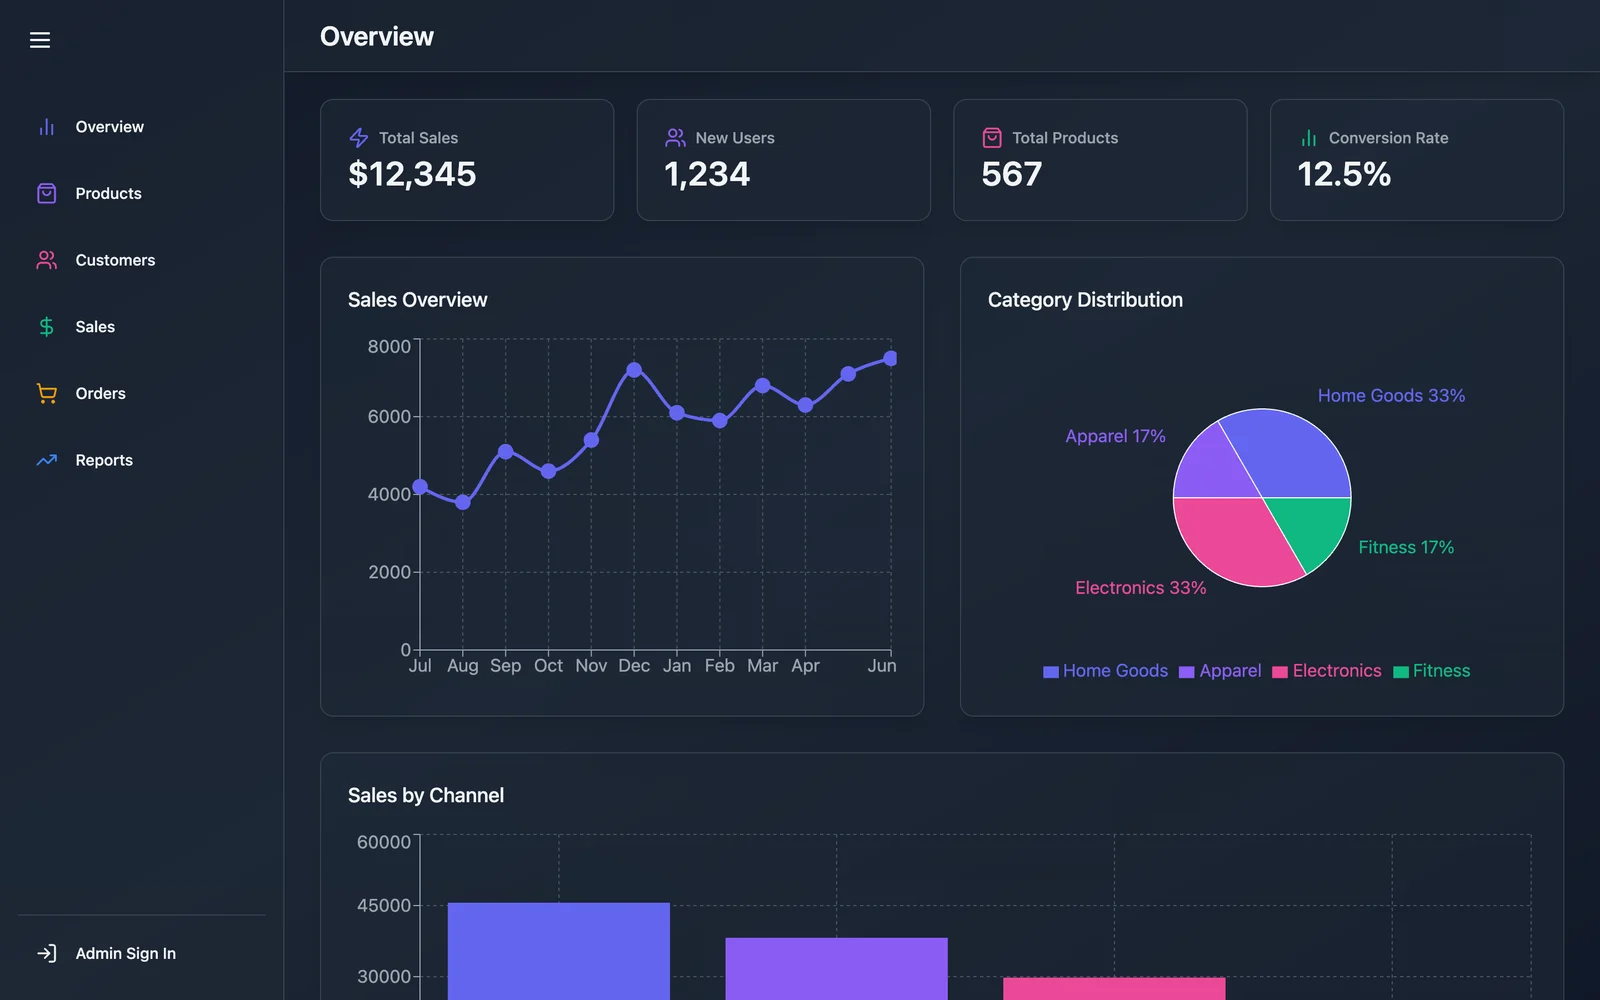
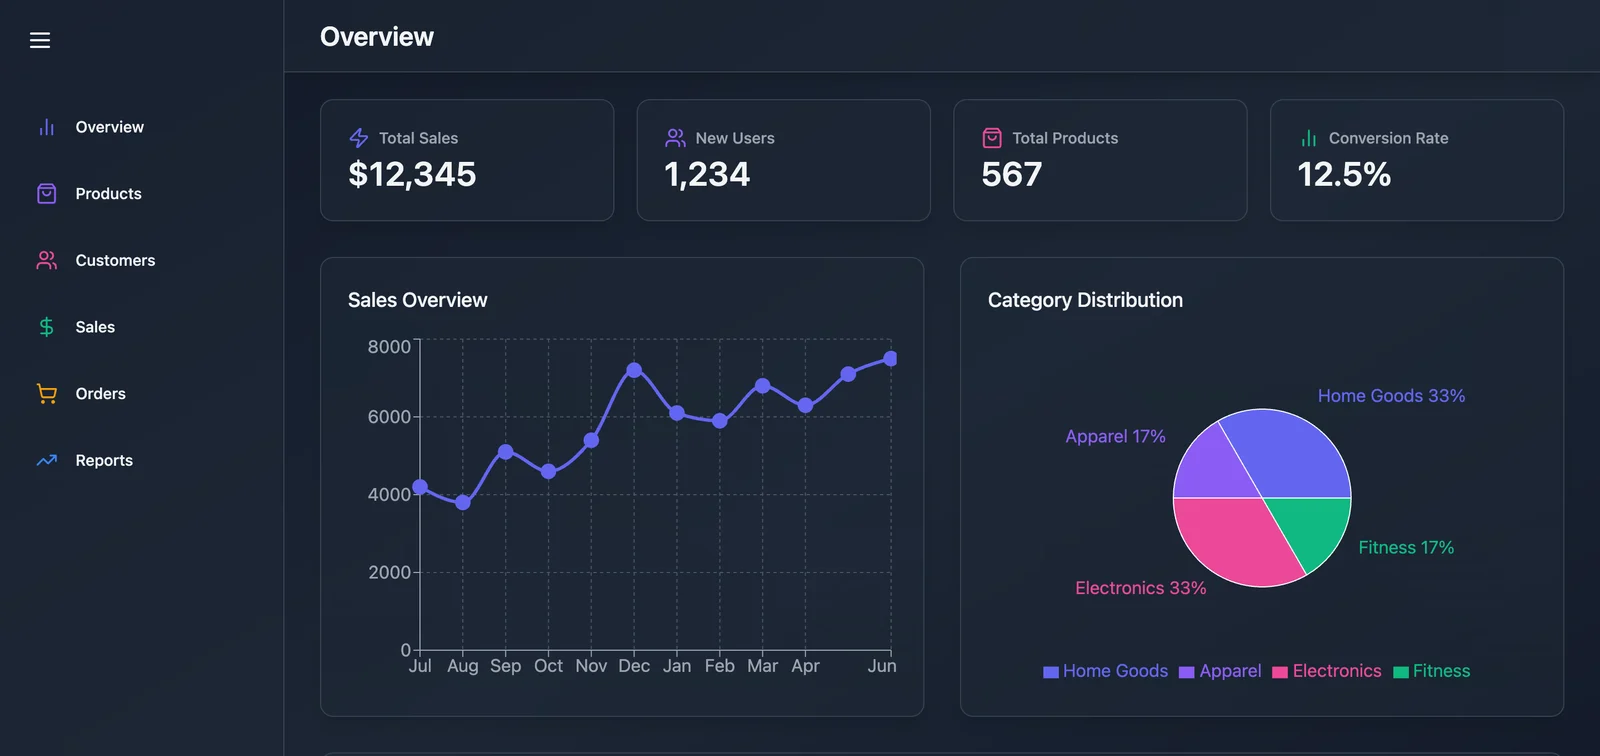
add work section with soldra and projects

diff --git a/src/components/Work.tsx b/src/components/Work.tsx
@@ -1,0 +1,161 @@
+import { ArrowUpRight, GithubLogo } from '@phosphor-icons/react'
+import { profile, projects, soldra, thisSite } from '../data'
+import { Reveal } from './Reveal'
+import { SectionHeading } from './SectionHeading'
+import { buttonPrimary, buttonSecondary, chip, container, eyebrow } from './ui'
+
+export function Work() {
+  return (
+    <section id="work" className="py-24 sm:py-32">
+      <div className={container}>
+        <SectionHeading label="Selected work" title="Things I've built." aside="And the one I'm building now." />
+        <Featured />
+        <MoreProjects />
+      </div>
+    </section>
+  )
+}
+
+function Featured() {
+  return (
+    <Reveal className="mt-14">
+      <article id="soldra" className="relative isolate overflow-hidden rounded-[2rem] bg-night text-night-ink">
+        <div aria-hidden className="pointer-events-none absolute inset-0 -z-10">
+          <div className="absolute -top-48 -left-32 size-[38rem] rounded-full bg-[#6fa0c4] opacity-20 blur-[140px]" />
+          <div className="absolute top-1/4 -right-40 size-[32rem] rounded-full bg-[#f0925c] opacity-15 blur-[140px]" />
+        </div>
+
+        <div className="grid gap-10 p-6 sm:p-10 lg:grid-cols-12 lg:items-center lg:gap-12 lg:p-14">
+          <div className="lg:col-span-5">
+            <div className="flex flex-wrap items-center gap-3">
+              <img src={soldra.logo} alt="" width={36} height={36} className="size-9" />
+              <h3 className="text-3xl font-bold tracking-tight">{soldra.name}</h3>
+              <span className="rounded-full border border-[#f0925c]/40 bg-[#f0925c]/10 px-3 py-1 text-xs font-semibold text-[#f6b48d]">
+                {soldra.status}
+              </span>
+            </div>
+            <p className="mt-5 font-display text-2xl leading-snug font-semibold tracking-tight">{soldra.tagline}</p>
+            <p className="mt-5 leading-relaxed text-night-muted">{soldra.problem}</p>
+            <p className="mt-4 leading-relaxed text-night-muted">{soldra.solution}</p>
+            <ul className="mt-8 flex flex-wrap gap-2" aria-label="Built with">
+              {soldra.stack.map((tech) => (
+                <li
+                  key={tech}
+                  className="rounded-full border border-night-line bg-night-raised px-3 py-1 text-xs font-medium text-night-muted"
+                >
+                  {tech}
+                </li>
+              ))}
+            </ul>
+          </div>
+
+          <div className="lg:col-span-7">
+            <img
+              src={soldra.screenshot}
+              width={1600}
+              height={938}
+              loading="lazy"
+              decoding="async"
+              alt="Soldra's dashboard: profit kept this year, total sold, the next quarterly tax date, and a sold-versus-kept chart for the last six months."
+              className="w-full rounded-2xl shadow-[0_30px_80px_-20px_rgba(0,0,0,0.6)] ring-1 ring-white/10"
+            />
+          </div>
+        </div>
+
+        <ul className="grid gap-px border-t border-night-line bg-night-line sm:grid-cols-2 lg:grid-cols-4">
+          {soldra.details.map((detail) => (
+            <li key={detail.title} className="bg-night p-6 sm:p-8">
+              <h4 className="text-lg font-semibold tracking-tight">{detail.title}</h4>
+              <p className="mt-2 text-sm leading-relaxed text-night-muted">{detail.body}</p>
+            </li>
+          ))}
+        </ul>
+      </article>
+    </Reveal>
+  )
+}
+
+function MoreProjects() {
+  const [project] = projects
+
+  return (
+    <div className="mt-6 grid gap-6 lg:grid-cols-3">
+      <Reveal className="lg:col-span-2">
+        <article className="group flex h-full flex-col overflow-hidden rounded-[2rem] border border-line bg-surface">
+          <div className="overflow-hidden border-b border-line bg-sunken px-5 pt-5 sm:px-8 sm:pt-8">
+            <img
+              src={project.screenshot}
+              width={1600}
+              height={756}
+              loading="lazy"
+              decoding="async"
+              alt="Store Admin Dashboard overview: sales, users, products and conversion rate cards above a sales line chart and a category pie chart."
+              className="w-full rounded-t-xl shadow-[0_20px_50px_-20px_rgba(22,20,15,0.35)] ring-1 ring-ink/10 transition duration-500 ease-out group-hover:-translate-y-1"
+            />
+          </div>
+          <div className="flex flex-1 flex-col p-6 sm:p-8">
+            <h3 className="text-2xl font-bold tracking-tight">{project.name}</h3>
+            <p className="mt-3 leading-relaxed text-muted">{project.description}</p>
+            <ul className="mt-5 flex flex-wrap gap-2" aria-label="Built with">
+              {project.stack.map((tech) => (
+                <li key={tech} className={chip}>
+                  {tech}
+                </li>
+              ))}
+            </ul>
+            <div className="mt-auto flex flex-wrap gap-3 pt-7">
+              <a href={project.live} target="_blank" rel="noreferrer" className={buttonPrimary}>
+                Live demo
+                <ArrowUpRight weight="bold" className="size-4" aria-hidden />
+              </a>
+              <a href={project.source} target="_blank" rel="noreferrer" className={buttonSecondary}>
+                <GithubLogo weight="fill" className="size-4" aria-hidden />
+                Source
+              </a>
+            </div>
+          </div>
+        </article>
+      </Reveal>
+
+      <div className="flex flex-col gap-6">
+        <Reveal delay={80} className="flex-1">
+          <article className="flex h-full flex-col rounded-[2rem] border border-line bg-surface p-6 sm:p-8">
+            <p className={`${eyebrow} text-muted`}>Meta</p>
+            <h3 className="mt-3 text-2xl font-bold tracking-tight">{thisSite.name}</h3>
+            <p className="mt-3 leading-relaxed text-muted">{thisSite.description}</p>
+            <a
+              href={thisSite.source}
+              target="_blank"
+              rel="noreferrer"
+              className="mt-auto inline-flex items-center gap-2 pt-6 text-sm font-semibold text-ink transition-colors hover:text-accent-ink"
+            >
+              <GithubLogo weight="fill" className="size-4" aria-hidden />
+              View source
+              <ArrowUpRight weight="bold" className="size-3.5" aria-hidden />
+            </a>
+          </article>
+        </Reveal>
+
+        <Reveal delay={160} className="flex-1">
+          <a
+            href={profile.github}
+            target="_blank"
+            rel="noreferrer"
+            className="group relative flex h-full min-h-56 flex-col justify-between overflow-hidden rounded-[2rem] bg-accent p-6 text-ink transition hover:brightness-105 sm:p-8"
+          >
+            <GithubLogo weight="fill" className="size-9" aria-hidden />
+            <ArrowUpRight
+              weight="bold"
+              className="absolute top-6 right-6 size-6 transition-transform duration-300 group-hover:translate-x-1 group-hover:-translate-y-1 sm:top-8 sm:right-8"
+              aria-hidden
+            />
+            <div>
+              <h3 className="text-2xl font-bold tracking-tight">More on GitHub</h3>
+              <p className="mt-2 text-ink/85">Everything else I've been working on.</p>
+            </div>
+          </a>
+        </Reveal>
+      </div>
+    </div>
+  )
+}

diff --git a/src/data.ts b/src/data.ts
@@ -1,4 +1,5 @@
 import soldraShot from './assets/projects/soldra-dashboard.webp'
+import soldraMark from './assets/projects/soldra-mark.svg'
 import storeAdminShot from './assets/projects/store-admin.webp'
 import typescript from './assets/logos/typescript.svg'
 import javascript from './assets/logos/javascript.svg'
@@ -67,6 +68,7 @@ export const soldra = {
   solution:
     "Soldra imports sales from six marketplaces, takes off every fee and what you paid for the item, and shows the profit that's actually yours, plus what to set aside each tax quarter.",
   screenshot: soldraShot,
+  logo: soldraMark,
   details: [
     {
       title: 'One importer, six CSV formats',

diff --git a/src/components/SectionHeading.tsx b/src/components/SectionHeading.tsx
@@ -1,0 +1,19 @@
+import { Reveal } from './Reveal'
+import { eyebrow } from './ui'
+
+type SectionHeadingProps = {
+  label: string
+  title: string
+  aside?: string
+}
+
+export function SectionHeading({ label, title, aside }: SectionHeadingProps) {
+  return (
+    <Reveal>
+      <p className={`${eyebrow} text-accent-ink`}>{label}</p>
+      <h2 className="mt-4 max-w-4xl text-[clamp(2.25rem,5vw,3.75rem)] leading-[1] font-bold tracking-[-0.04em]">
+        {title} {aside && <span className="text-faint">{aside}</span>}
+      </h2>
+    </Reveal>
+  )
+}

diff --git a/src/App.tsx b/src/App.tsx
@@ -1,6 +1,7 @@
 import { Nav } from './components/Nav'
 import { Hero } from './components/Hero'
 import { Impact } from './components/Impact'
+import { Work } from './components/Work'
 
 function App() {
   return (
@@ -15,6 +16,7 @@ function App() {
       <main id="main">
         <Hero />
         <Impact />
+        <Work />
       </main>
     </>
   )
